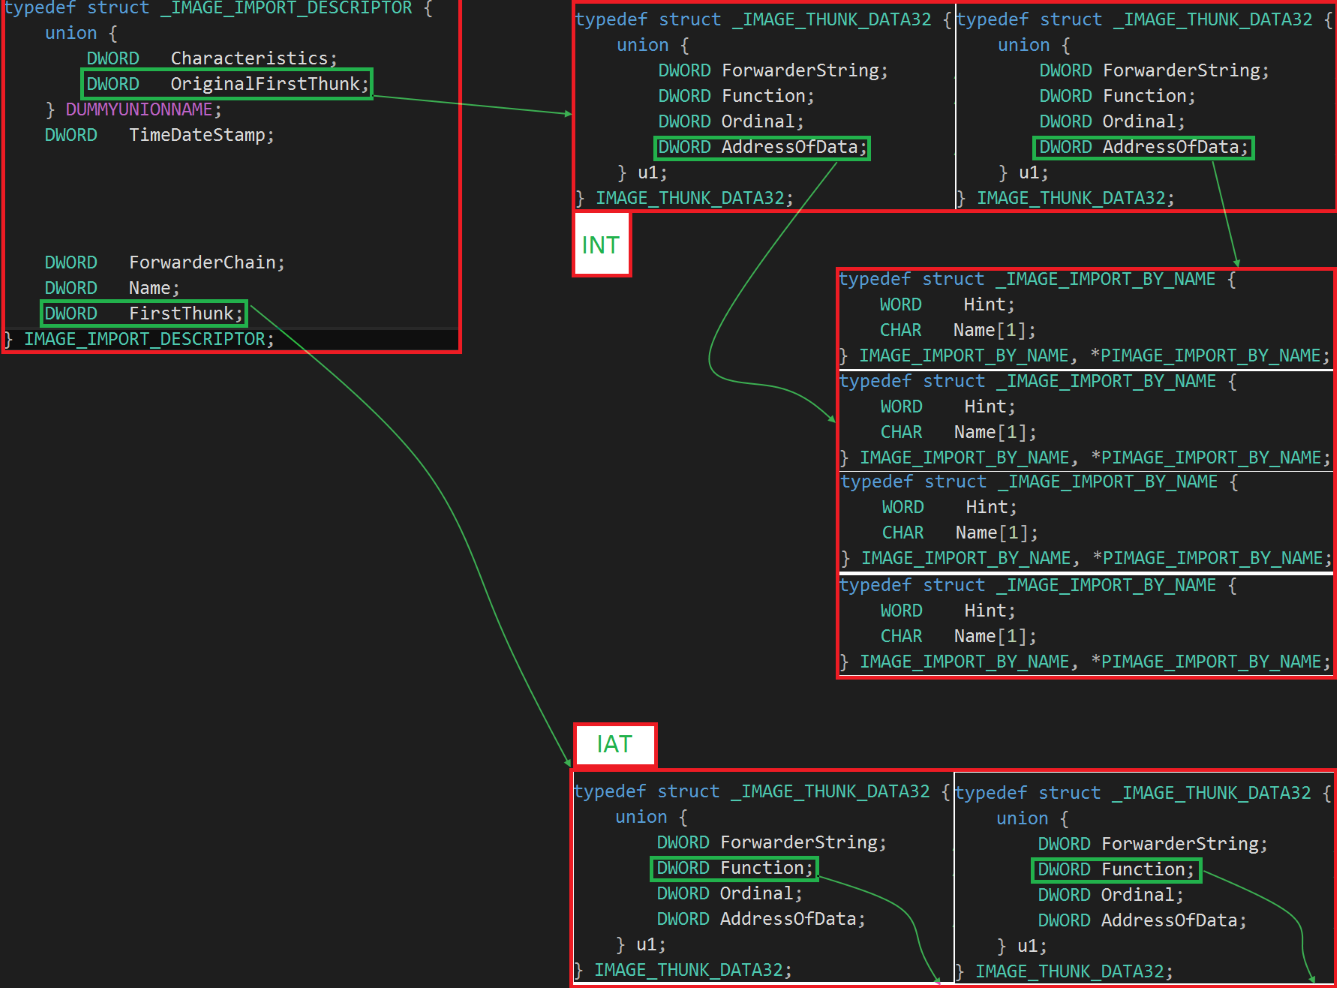
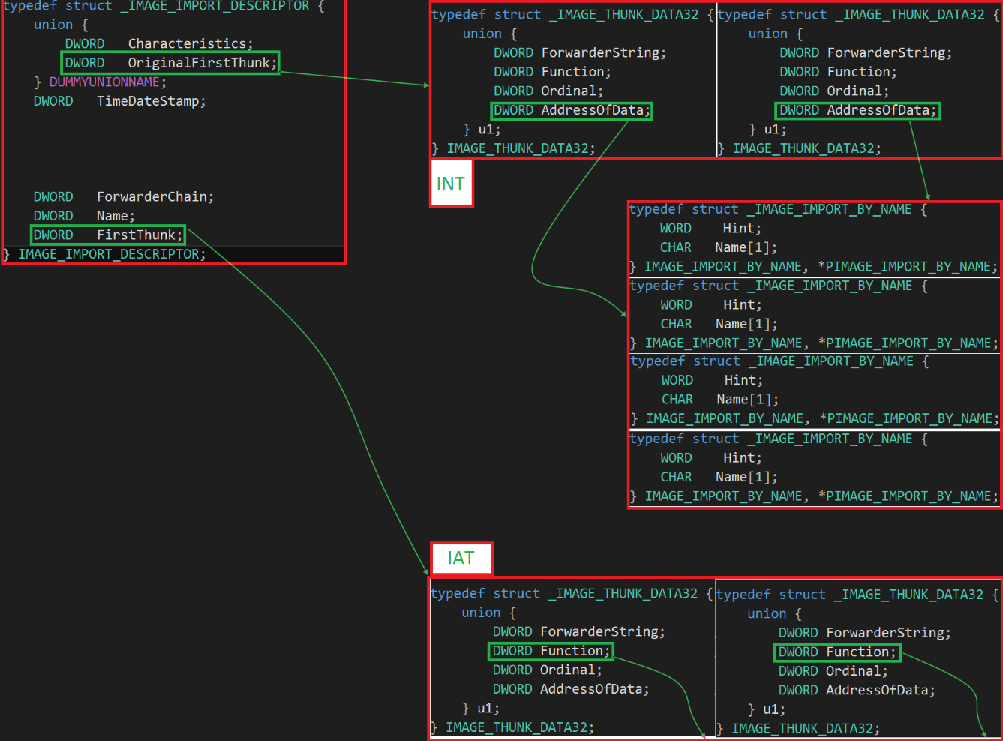
Finished updates for section 3.1

diff --git a/slides/re_section3.1.rst b/slides/re_section3.1.rst
@@ -934,7 +934,7 @@ Initial
 =======
 
 
-:class: tiny-image
+:class: mid-image
 
 .. image:: ./img/PE_import_view_initial_p2.png
 
@@ -944,12 +944,14 @@ Post-Load
 =========
 
 
-:class: tiny-image
+:class: mid-image
 
 .. image:: ./img/PE_import_view_after.png
 
 
 ----
+
+:class: windbg
 
 Listing Imports
 ===============
@@ -958,17 +960,27 @@ Listing Imports
 
 .. code:: python
 
-	>>> imps = { entry.dll : [ imp.name for imp in entry.imports ] for entry in pe.DIRECTORY_ENTRY_IMPORT }
+	>>> imps = { entry.dll :\
+	 [ imp.name for imp in entry.imports ]\
+	  for entry in pe.DIRECTORY_ENTRY_IMPORT }
 	>>> imps
-	{'KERNEL32.dll': ['GetLastError', 'UnhandledExceptionFilter', 'GetCurrentProcess', 'TerminateProcess',
-	 'GetSystemTimeAsFileTime', 'GetCurrentProcessId', 'GetCurrentThreadId', 'GetTickCount', 
-	 'QueryPerformanceCounter', 'GetModuleHandleA', 'SetUnhandledExceptionFilter', 'RtlUnwind', 
-	 'InterlockedCompareExchange', 'Sleep', 'InterlockedExchange'], 'msvcrt.dll': ['_exit', '_XcptFilter', 
-	 'exit', '_initterm', '_amsg_exit', '__setusermatherr', '_adjust_fdiv', '__p__commode', '__p__fmode', 
-	 '__set_app_type', '?terminate@@YAXXZ', '_controlfp', '_cexit', '__getmainargs', 'fopen', 'printf', 'fprintf', 
+	{'KERNEL32.dll': ['GetLastError', 'UnhandledExceptionFilter',
+	 'GetCurrentProcess', 'TerminateProcess',
+	 'GetSystemTimeAsFileTime', 'GetCurrentProcessId', 
+	 'GetCurrentThreadId', 'GetTickCount', 
+	 'QueryPerformanceCounter', 'GetModuleHandleA', 
+	 'SetUnhandledExceptionFilter', 'RtlUnwind', 
+	 'InterlockedCompareExchange', 'Sleep', 'InterlockedExchange'], 
+	 'msvcrt.dll': ['_exit', '_XcptFilter', 
+	 'exit', '_initterm', '_amsg_exit', '__setusermatherr', 
+	 '_adjust_fdiv', '__p__commode', '__p__fmode', 
+	 '__set_app_type', '?terminate@@YAXXZ', '_controlfp', '_cexit', 
+	 '__getmainargs', 'fopen', 'printf', 'fprintf', 
 	 'fclose'], 'USER32.dll': ['MessageBoxA']}
 
 ----
+
+:class: flex-image
 
 Listing Imports (cont'd)
 ========================
@@ -1043,6 +1055,8 @@ Correlating Names to Ordinals
 
 ----
 
+:class: windbg
+
 Viewing Exports
 ===============
 
@@ -1052,20 +1066,32 @@ Viewing Exports
 
 	>>> import pefile
 	>>> pe = pefile.PE("sqlite3.dll")
-	>>> exports = [(exp.name, exp.ordinal) for exp in pe.DIRECTORY_ENTRY_EXPORT.symbols]
+	>>> exports = [(exp.name, exp.ordinal)\
+	 for exp in pe.DIRECTORY_ENTRY_EXPORT.symbols]
 	>>> exports
-	[('sqlite3_aggregate_context', 1), ('sqlite3_aggregate_count', 2), ('sqlite3_auto_extension', 3), 
-	('sqlite3_backup_finish', 4), ('sqlite3_backup_init', 5), ('sqlite3_backup_pagecount', 6), 
-	('sqlite3_backup_remaining', 7), ('sqlite3_backup_step', 8), ('sqlite3_bind_blob', 9), ('sqlite3_bind_double', 10),
-	('sqlite3_bind_int', 11), ('sqlite3_bind_int64', 12), ('sqlite3_bind_null', 13), ('sqlite3_bind_parameter_count', 14),
-	('sqlite3_bind_parameter_index', 15), ('sqlite3_bind_parameter_name', 16), ('sqlite3_bind_text', 17),
-	('sqlite3_bind_text16', 18), ('sqlite3_bind_value', 19), ('sqlite3_bind_zeroblob', 20), ('sqlite3_blob_bytes', 21), 
-	('sqlite3_blob_close', 22), ('sqlite3_blob_open', 23), ('sqlite3_blob_read', 24), ('sqlite3_blob_write', 25), 
-	('sqlite3_busy_handler', 26), ('sqlite3_busy_timeout', 27), ('sqlite3_changes', 28), ('sqlite3_clear_bindings', 29), 
-	('sqlite3_close', 30), ('sqlite3_collation_needed', 31), ('sqlite3_collation_needed16', 32)
+	[('sqlite3_aggregate_context', 1), ('sqlite3_aggregate_count', 2), 
+	('sqlite3_auto_extension', 3), 
+	('sqlite3_backup_finish', 4), ('sqlite3_backup_init', 5), 
+	('sqlite3_backup_pagecount', 6), 
+	('sqlite3_backup_remaining', 7), ('sqlite3_backup_step', 8), 
+	('sqlite3_bind_blob', 9), ('sqlite3_bind_double', 10),
+	('sqlite3_bind_int', 11), ('sqlite3_bind_int64', 12), 
+	('sqlite3_bind_null', 13), ('sqlite3_bind_parameter_count', 14),
+	('sqlite3_bind_parameter_index', 15), ('sqlite3_bind_parameter_name', 16), 
+	('sqlite3_bind_text', 17), ('sqlite3_bind_text16', 18), 
+	('sqlite3_bind_value', 19), ('sqlite3_bind_zeroblob', 20), 
+	('sqlite3_blob_bytes', 21), 
+	('sqlite3_blob_close', 22), ('sqlite3_blob_open', 23), 
+	('sqlite3_blob_read', 24), ('sqlite3_blob_write', 25), 
+	('sqlite3_busy_handler', 26), ('sqlite3_busy_timeout', 27), 
+	('sqlite3_changes', 28), ('sqlite3_clear_bindings', 29), 
+	('sqlite3_close', 30), ('sqlite3_collation_needed', 31), 
+	('sqlite3_collation_needed16', 32)
 	...
 
 ----
+
+:class: flex-image
 
 Viewing Exports (cont'd)
 ========================
